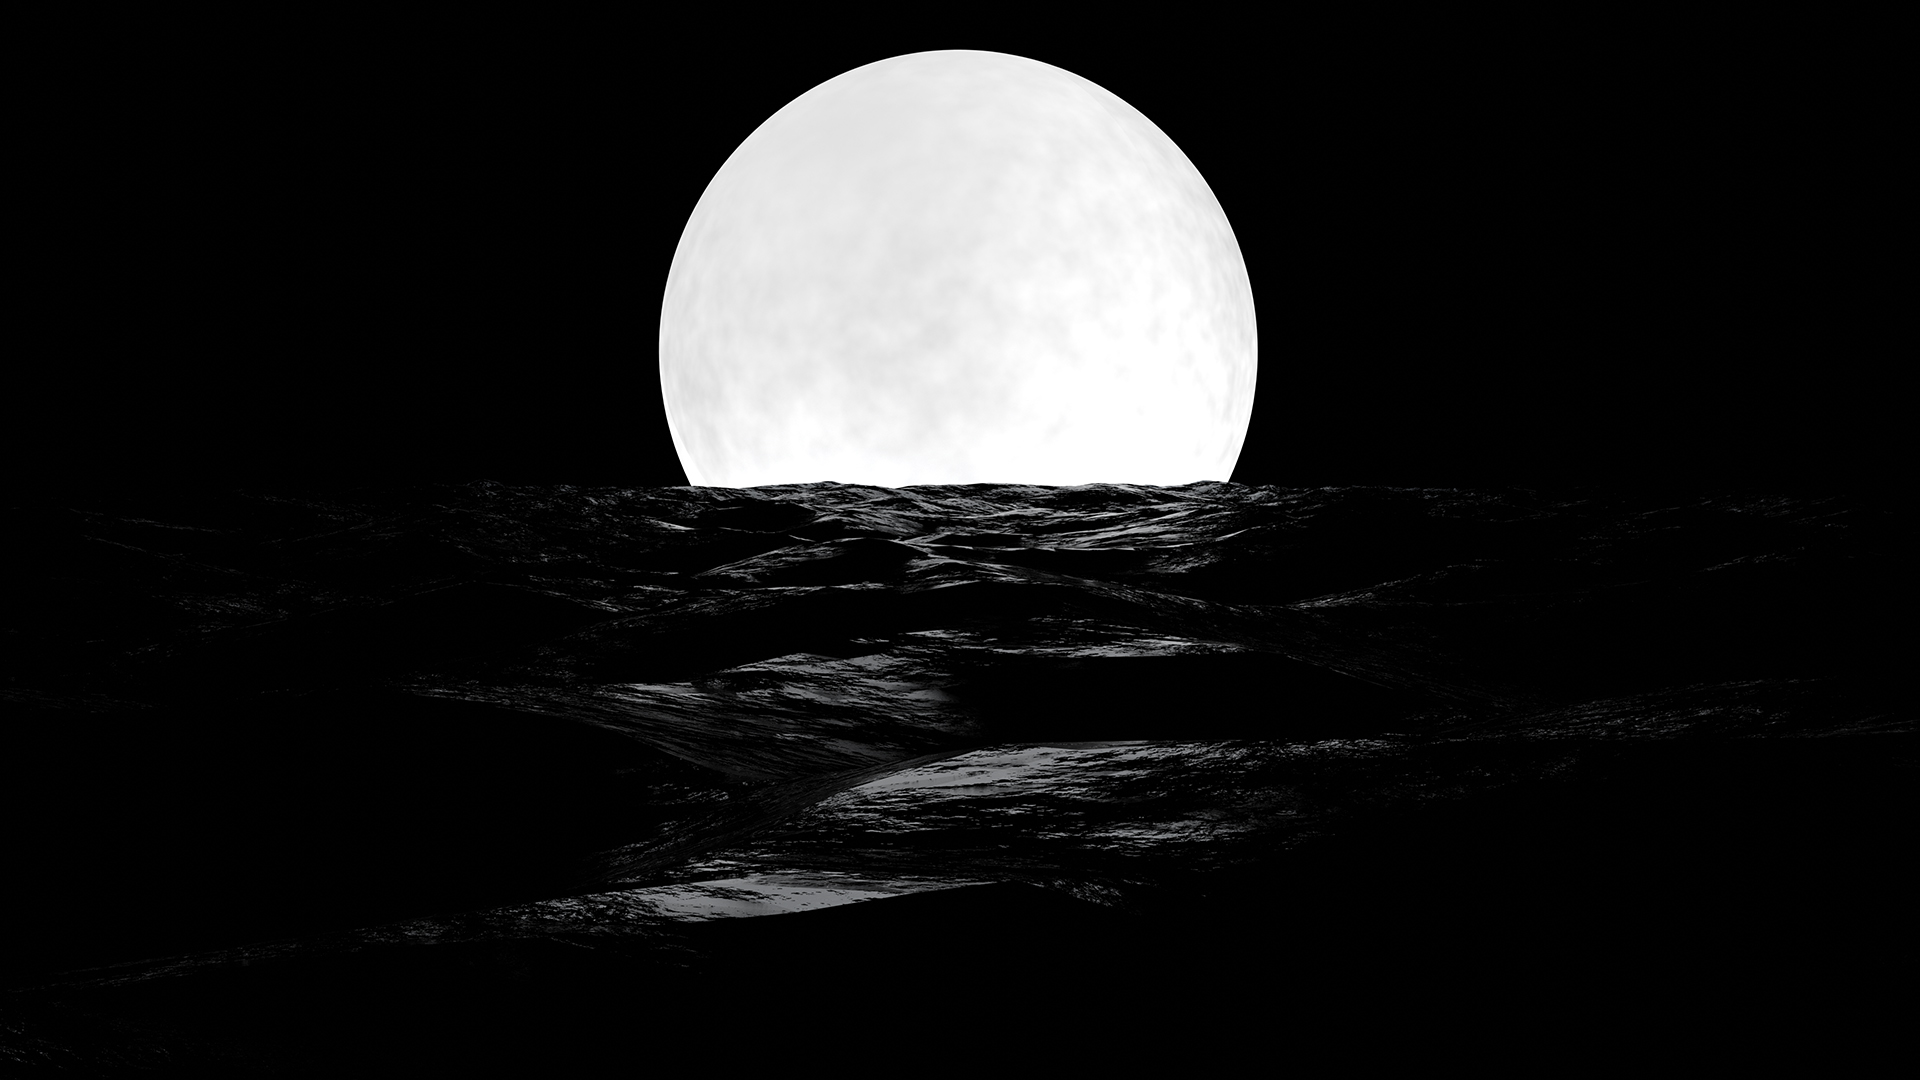
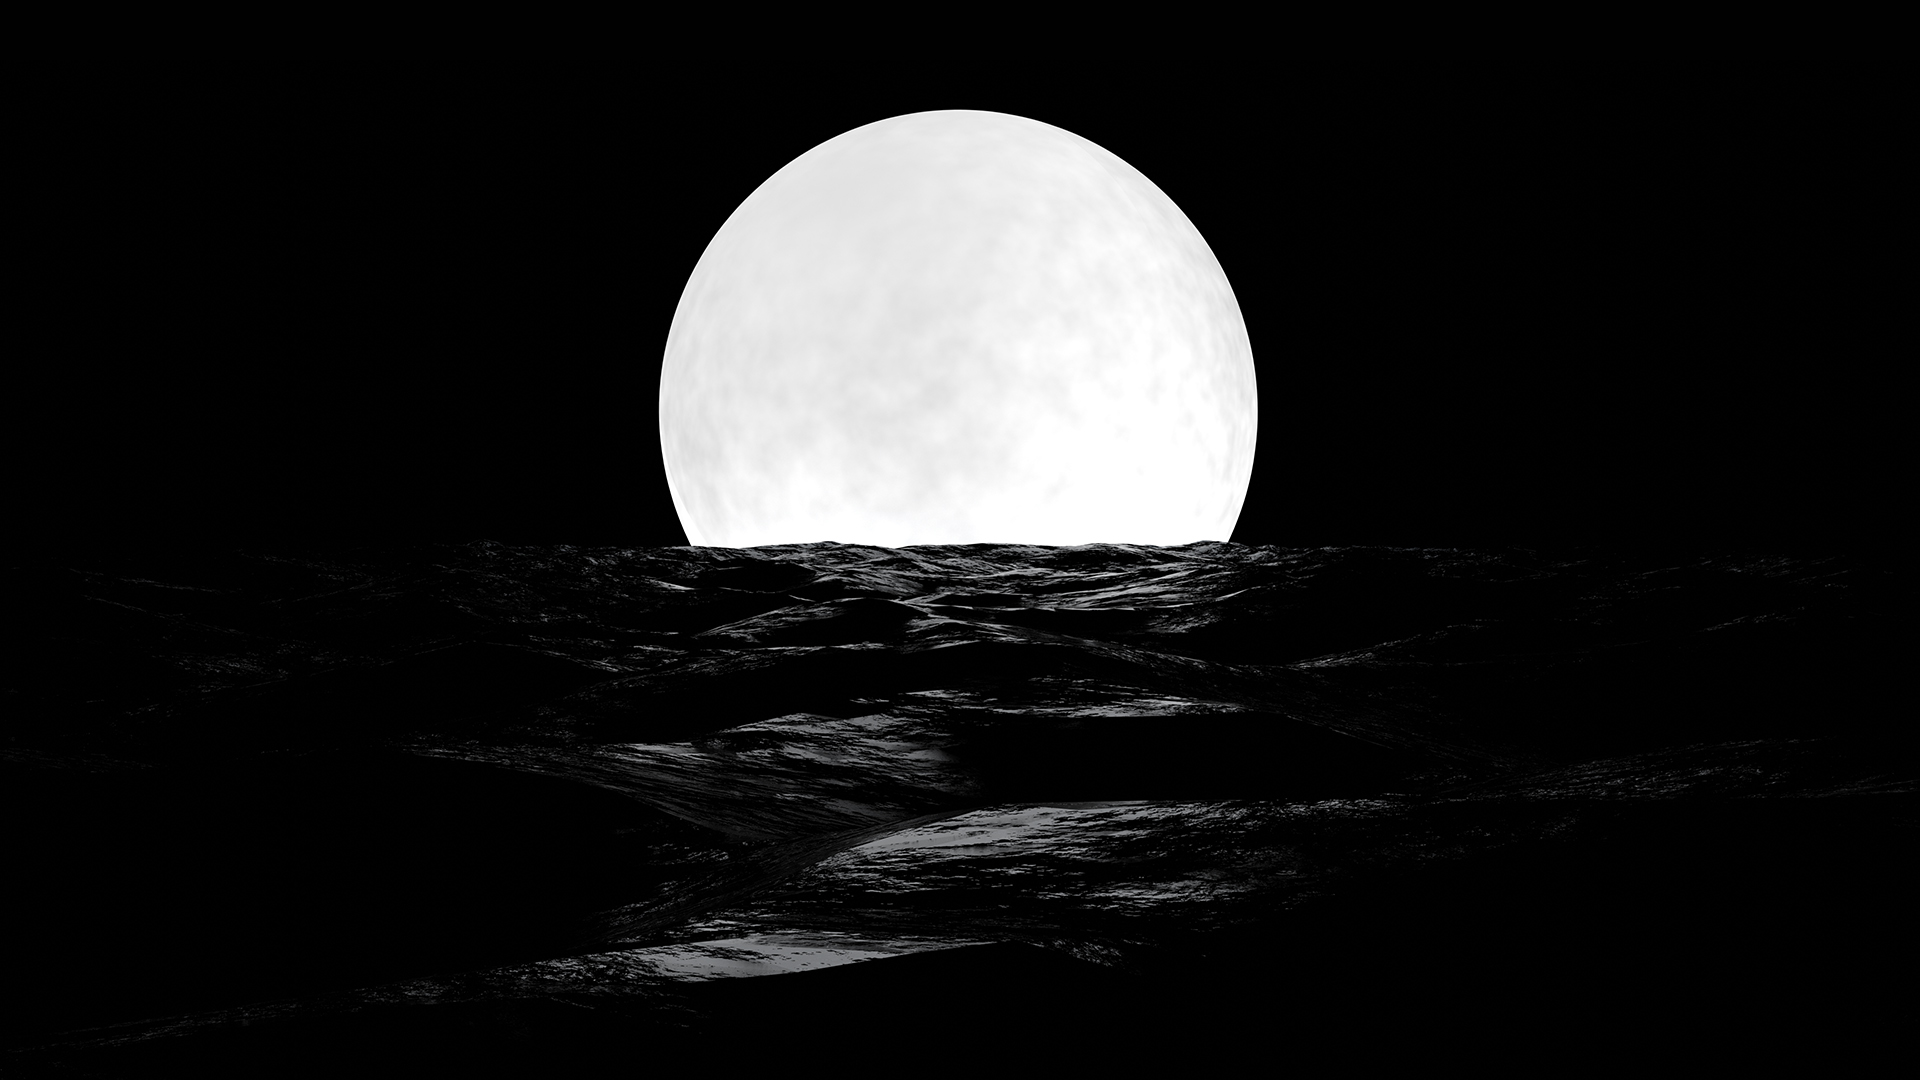
lowered background image

diff --git a/public/index.html b/public/index.html
@@ -34,7 +34,7 @@
         <v-toolbar-title class="toolbar-title">bezz</v-toolbar-title>
         <v-img src="./static/bezz.png" :aspect-ratio="1/1" contain position="right center" class="link-image image-invert bezz-logo d-flex"></v-img>
       </v-toolbar>
-      <v-content class="content" v-bind:class="{ 'content-margin': showMargin }">
+      <v-content class="content" v-bind:class="{ 'content-desktop-margin': showMargin, 'content-mobile-margin': !showMargin }">
         <v-container fluid>
           <v-flex xs12 offset-sm1 sm10 offset-md2 md8 offset-lg2 lg8>
             <v-layout row wrap>

diff --git a/public/style.css b/public/style.css
@@ -14,8 +14,12 @@
   z-index: 10;
 }
 
-.content-margin {
+.content-desktop-margin {
   margin-top: calc(45vh - 96px);
+}
+
+.content-mobile-margin {
+  margin-top: 64px;
 }
 
 .main-toolbar {
@@ -71,7 +75,7 @@ a:link.margin-text {
 }
 
 #app .application--wrap {
-  background-image: url("http://b-e-z-z.com/static/moon.jpg");
+  background-image: url("./static/moon.jpg");
   background-size: cover;
   background-position-y: center;
   background-position-x: center;
